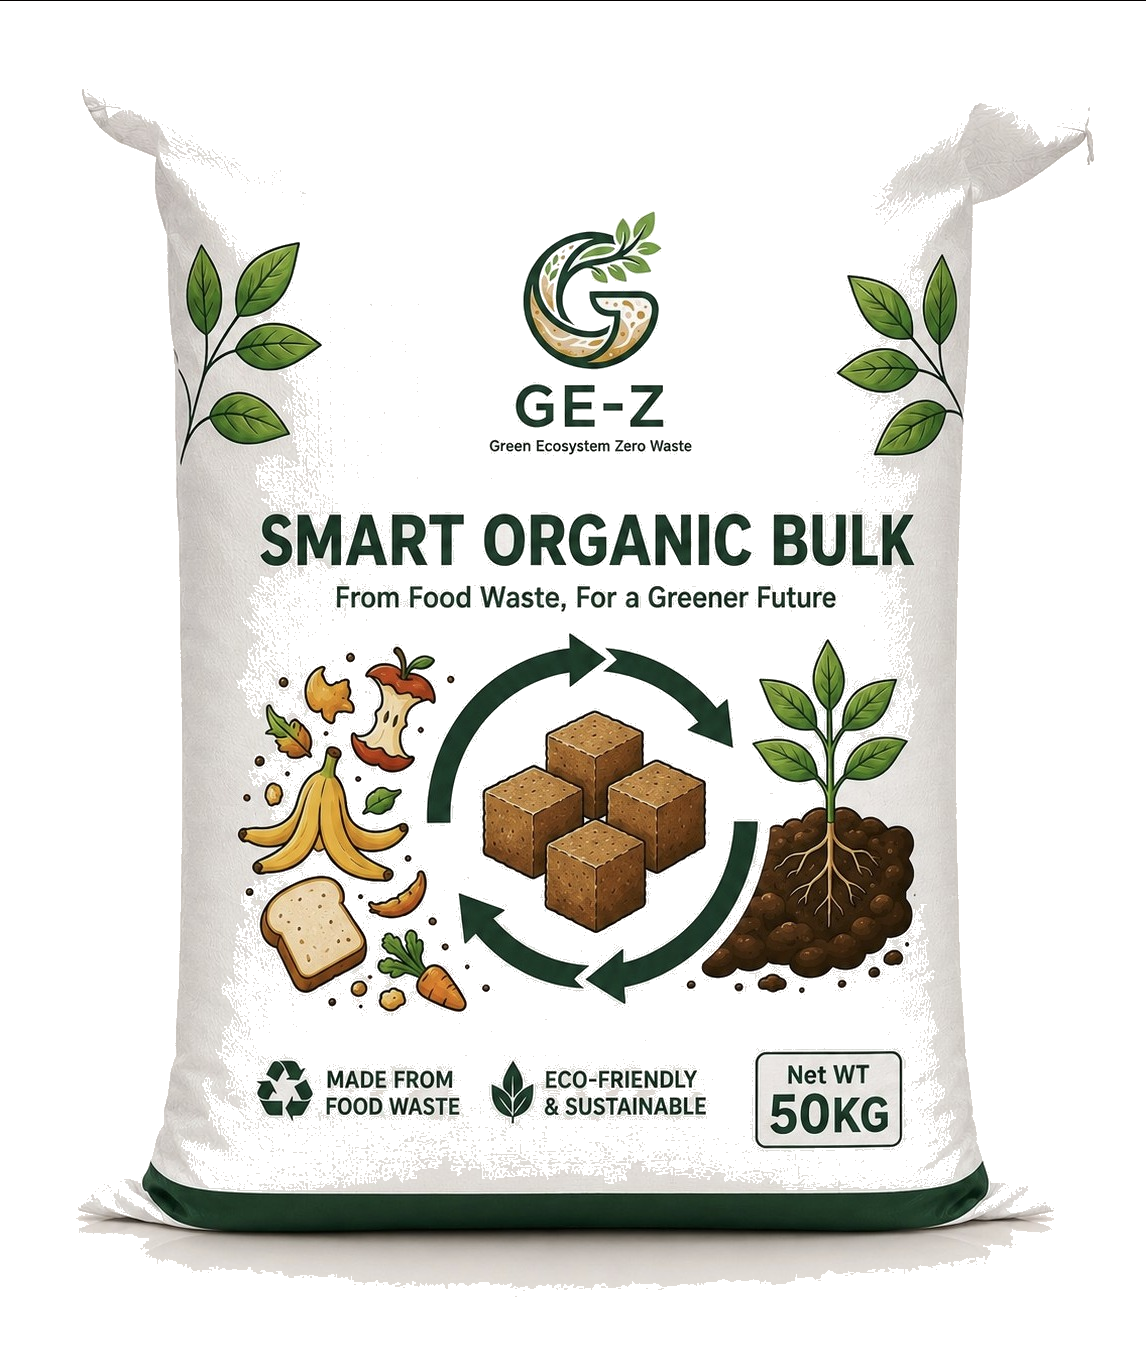
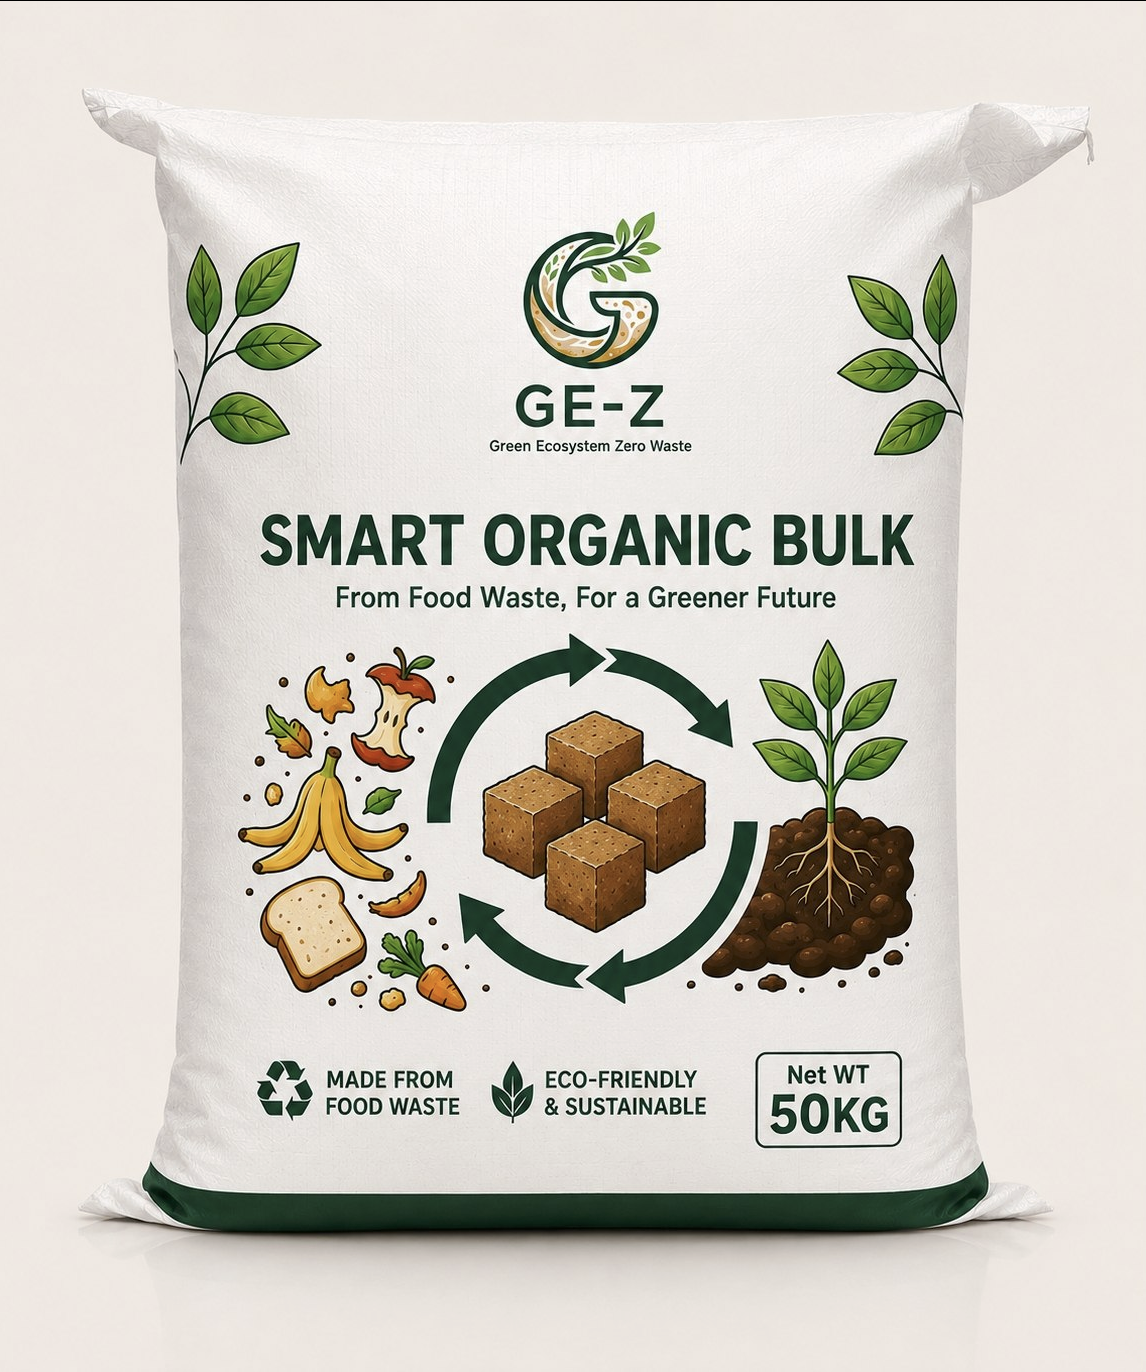
update product photos and refine background color match

diff --git a/index.html b/index.html
@@ -859,7 +859,7 @@
   <section>
     <div class="max cards cards-2col">
       <div class="card">
-        <div class="ph" style="height:230px; background:#f1ece7; border:none;">
+        <div class="ph" style="height:230px; background:#f1ebe5; border:none;">
           <img src="product-soc-tin.png" alt="Smart Organic Cube tin" style="width:100%; height:100%; object-fit:contain; border-radius:0; padding:16px;">
         </div>
         <div class="card-body">
@@ -870,7 +870,7 @@
         </div>
       </div>
       <div class="card">
-        <div class="ph" style="height:230px; background:#f1ece7; border:none;">
+        <div class="ph" style="height:230px; background:#f1ebe5; border:none;">
           <img src="product-soc-sack.png" alt="Smart Organic Bulk sack" style="width:100%; height:100%; object-fit:contain; border-radius:0; padding:16px;">
         </div>
         <div class="card-body">
